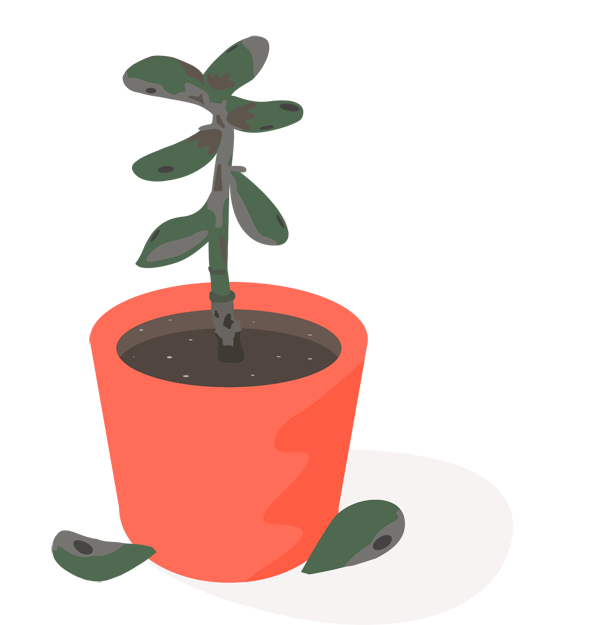
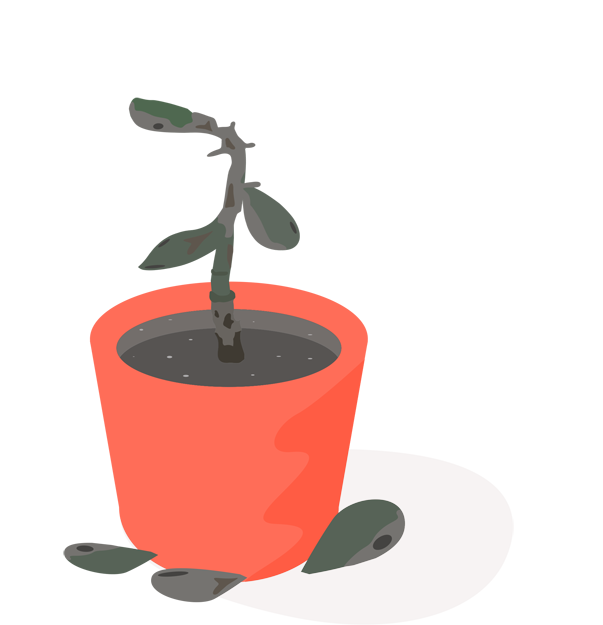
Completed basic implementation with all plant states

diff --git a/script/main.js b/script/main.js
@@ -3,6 +3,7 @@ var passwordInput = document.getElementById('password-input');
 var plant = document.getElementById('plant');
 
 var isFeeding = false;
+var currPassword = '';
 
 passwordForm.addEventListener('submit', function(evt) {
   evt.preventDefault();
@@ -14,6 +15,7 @@ passwordForm.addEventListener('submit', function(evt) {
 
   isFeeding = true;
   passwordForm.className = 'feeding';
+  currPassword = passwordInput.value;
 
   window.setTimeout(feedPlant, 1000);
 });
@@ -35,7 +37,7 @@ function feedPlant()
 
 function displayResults()
 {
-  var resultsSummary = analyzePassword(passwordInput.value);
+  var resultsSummary = analyzePassword(currPassword);
   outputResults(resultsSummary);
 }
 
@@ -95,15 +97,15 @@ function outputResults(resultsSummary)
   {
     state = 'flowering';
   }
-  else if(strength < 100 && strength > 50)
+  else if(strength > 70)
   {
     state = 'happy';
   }
-  else if(strength < 50 && strength > 20)
+  else if(strength > 50)
   {
     state = 'sad';
   }
-  else if(resultsSummary.passwordStrength < 50)
+  else
   {
     state = 'dead';
   }

diff --git a/style/main.css b/style/main.css
@@ -33,6 +33,40 @@ body
   transition: transform 1s, top 1s, left 1s;
 }
 
+#password-form.feeding input[type="password"]
+{
+  top: -8em;
+  left: 3em;
+  transform: rotate(-20deg) scale(0.7);
+}
+
+@media (min-width: 25em)
+{
+  #password-form.feeding input[type="password"]
+  {
+    top: -10em;
+    left: 3em;
+  }
+}
+
+@media (min-width: 31.25em)
+{
+  #password-form.feeding input[type="password"]
+  {
+    top: -12em;
+    left: 4em;
+  }
+}
+
+@media (min-width: 37.5em)
+{
+  #password-form.feeding input[type="password"]
+  {
+    top: -13em;
+    left: 5em;
+  }
+}
+
 #password-form input[type="submit"]
 {
   background: #ff6d58;
@@ -57,13 +91,6 @@ body
 #password-form input[type="submit"]:focus
 {
   outline: none;
-}
-
-#password-form.feeding input[type="password"]
-{
-  top: -13em;
-  left: 5em;
-  transform: rotate(-20deg) scale(0.7);
 }
 
 #plant-container
